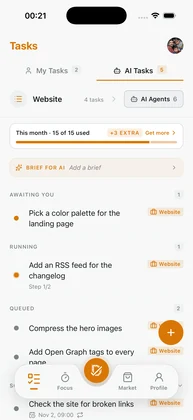
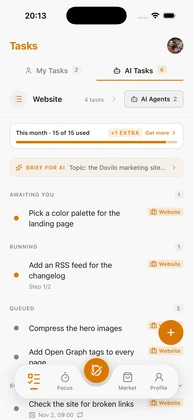
Dark captures: review fixes
From /code-review on the branch:

- figure-phones staggers its second phone by position, so a pair that
  mixes a one-source <img> with a <picture> still steps.
- The doc states the mismatch edge in full: with a saved choice that
  differs from the OS, the preload scanner fetches every eager hero
  capture in the OS theme first, which delays the LCP image for that
  visitor; a parse-time fix in the boot script was tried and does not
  help. It also says a <picture> sits only in a figure or a step.
- The system.css comment no longer claims a <picture> needs no CSS, and
  the site script's header names the dark captures (all three copies,
  still identical).
- README's ffmpeg recipe gains the 386w/772w commands the redesigned
  pages and the -dark twins use.
- mobile-ai-193.webp (unreferenced) is re-encoded from the new en-02, so
  no variant shows the old screen.

diff --git a/styles/system.css b/styles/system.css
@@ -166,10 +166,10 @@ code,kbd,pre{font-family:var(--font-mono);font-size:var(--text-code)}
 
 img,svg,video{display:block;max-width:100%}
 img{height:auto}
-/* A <picture> adds no box of its own: its <img> lays out exactly as it would
-   alone, so a figure with a dark capture needs no CSS of its own. Its
-   <source> would otherwise become an empty grid item and take a cell; the
-   browser picks the image from the markup, not from layout. */
+/* A <picture> adds no box of its own, so grids and figures lay out its <img>
+   directly. Its <source> would otherwise become an empty grid item and take
+   a cell; the browser picks the image from the markup, not from layout.
+   Selectors that count siblings (figure-phones below) must allow for it. */
 picture{display:contents}
 picture > source{display:none}
 
@@ -467,13 +467,13 @@ picture > source{display:none}
   max-width:480px;
 }
 .figure-phones img{align-self:start}
-.figure-phones > img + img,
-.figure-phones > picture + picture img{margin-top:var(--space-5)}
+.figure-phones > img:nth-child(2),
+.figure-phones > picture:nth-child(2) > img{margin-top:var(--space-5)}
 .figure-phones figcaption{grid-column:1 / -1}
 @media (min-width:600px){
   .figure-phones{column-gap:var(--space-3)}
-  .figure-phones > img + img,
-  .figure-phones > picture + picture img{margin-top:var(--space-6)}
+  .figure-phones > img:nth-child(2),
+  .figure-phones > picture:nth-child(2) > img{margin-top:var(--space-6)}
 }
 
 /* Figure row: two figures side by side, each with its own caption, as the

diff --git a/styleguide/index.html b/styleguide/index.html
@@ -1481,8 +1481,8 @@
   </footer>
 
   <script>
-    /* Site script: theme toggle, mobile menu, copy buttons, email links. The
-       same on every page. */
+    /* Site script: theme toggle, mobile menu, copy buttons, email links and
+       the dark captures of figures. The same on every page. */
     (function(){
       var root = document.documentElement;
       var dark = window.matchMedia('(prefers-color-scheme: dark)');

diff --git a/ai/index.html b/ai/index.html
@@ -499,8 +499,8 @@
   </footer>
 
   <script>
-    /* Site script: theme toggle, mobile menu, copy buttons, email links. The
-       same on every page. */
+    /* Site script: theme toggle, mobile menu, copy buttons, email links and
+       the dark captures of figures. The same on every page. */
     (function(){
       var root = document.documentElement;
       var dark = window.matchMedia('(prefers-color-scheme: dark)');

diff --git a/index.html b/index.html
@@ -591,8 +591,8 @@
   </footer>
 
   <script>
-    /* Site script: theme toggle, mobile menu, copy buttons, email links. The
-       same on every page. */
+    /* Site script: theme toggle, mobile menu, copy buttons, email links and
+       the dark captures of figures. The same on every page. */
     (function(){
       var root = document.documentElement;
       var dark = window.matchMedia('(prefers-color-scheme: dark)');

diff --git a/docs/design-language.md b/docs/design-language.md
@@ -558,10 +558,14 @@ sees first. The site script then points every `source.src-dark` at the nearest e
 `data-theme` (`all` for dark, `not all` for light), on load and on every toggle, and back to the OS
 query when there is no choice; the browser swaps the image without a reload. Only the capture for
 the current theme is fetched, and a lazy one only when it nears the viewport; the other is fetched
-the first time the theme changes. One edge: a visitor whose saved choice differs from the OS may
-fetch the hero's OS-theme capture once on a page's first load, because the preload scanner reads
-the markup before any script runs. `<picture>` adds no box (`display:contents`), so the
-`figure-pair`, `figure-phones`, `figure-row` and `step-shot` layouts are unchanged. A screen that
+the first time the theme changes. One edge: when a visitor's saved choice differs from the OS, the
+preload scanner, which reads the markup before any script runs, fetches every eager hero capture in
+the OS theme first (both phones on `/`, the phone on `/ai`), and the shown one only starts when the
+site script runs, so the LCP image arrives later for that visitor. A parse-time fix in the boot
+script was tried and does not help: the scanner fetches before it. `<picture>` adds no box
+(`display:contents`) and its `<source>` is `display:none`, so the `figure-pair`, `figure-phones`,
+`figure-row` and `step-shot` layouts are unchanged. A `<picture>` sits only inside a `<figure>` or
+a step, never directly in `.flow` or a section container, where the spacing rules would miss it. A screen that
 looks the same in both themes (the city) keeps one source. Desktop captures and share cards stay
 light.
 

diff --git a/README.md b/README.md
@@ -58,10 +58,17 @@ To add or replace a screenshot, drop the PNG in [`screenshots/`](screenshots/) a
 with ffmpeg:
 
 ```bash
-# full-size WebP (quality 80 for the busy city render, 88 elsewhere)
-ffmpeg -i screenshots/mobile-x.png -c:v libwebp -quality 88 -compression_level 6 screenshots/mobile-x.webp
+# Quality 80 for the busy city render, 88 elsewhere.
 
-# 1x variant for the phone slots (~193 CSS px wide)
+# A phone capture at full size (1206px PNG): the 386w and 772w pair the
+# redesigned pages use. A dark twin takes the same commands with -dark before
+# the width suffix (mobile-x-dark.webp, mobile-x-dark-772.webp).
+ffmpeg -i screenshots/mobile-x.png -vf scale=386:-2:flags=lanczos -c:v libwebp -quality 88 -compression_level 6 screenshots/mobile-x.webp
+ffmpeg -i screenshots/mobile-x.png -vf scale=772:-2:flags=lanczos -c:v libwebp -quality 88 -compression_level 6 screenshots/mobile-x-772.webp
+
+# An older 386px PNG: encode it at its own size, plus the 1x variant for the
+# old pages' phone slots (~193 CSS px wide)
+ffmpeg -i screenshots/mobile-x.png -c:v libwebp -quality 88 -compression_level 6 screenshots/mobile-x.webp
 ffmpeg -i screenshots/mobile-x.png -vf scale=193:-2:flags=lanczos -c:v libwebp -quality 88 -compression_level 6 screenshots/mobile-x-193.webp
 ```
 
